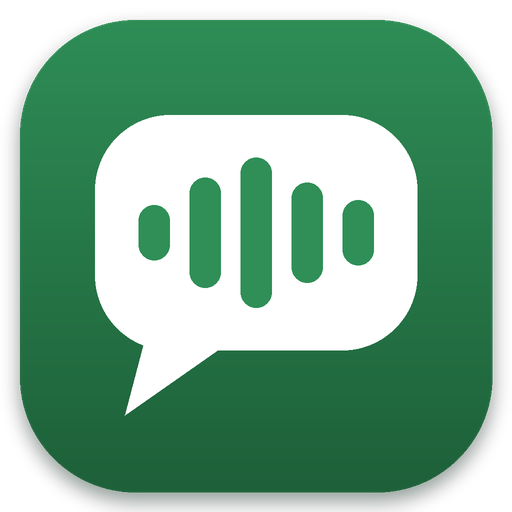
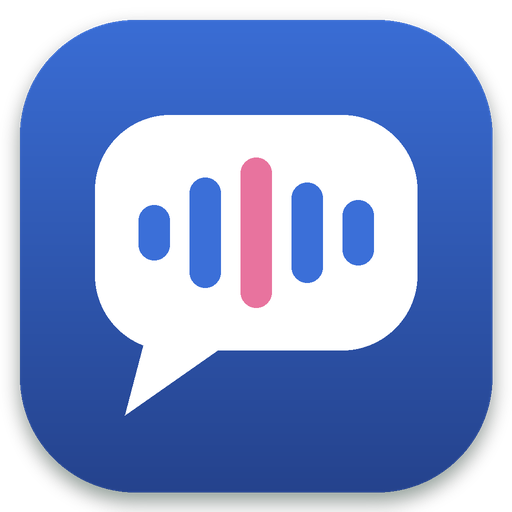
UI 改成藍粉配色（藍為主、粉色點綴），圖示設計同步改色

diff --git a/hoyotts/ui.py b/hoyotts/ui.py
@@ -1,4 +1,4 @@
-"""hoyoTTS 圖形介面（tkinter，綠色主題）。"""
+"""hoyoTTS 圖形介面（tkinter，藍粉主題）。"""
 
 from __future__ import annotations
 
@@ -22,29 +22,33 @@ FONT_BIG = (UI_FONT, 13)
 FONT_NAME = (UI_FONT, 13, "bold")
 FONT_TITLE = (UI_FONT, 16, "bold")
 
-# 綠色主題
-BG = "#eef6f0"          # 視窗底色
+# 藍粉主題：藍色為主，粉色點綴（開始按鈕、對話色帶、選項、朗讀中、勾選框）
+BG = "#eef3fb"          # 視窗底色
 CARD = "#ffffff"        # 卡片、分頁內容
-FG = "#1d3326"          # 主要文字
-MUTED = "#5d7465"       # 次要文字
-BORDER = "#c9e0d0"
-GREEN = "#2f8f57"       # 主色
-GREEN_DARK = "#1d5e38"  # 標題列、按下
-GREEN_HOVER = "#3aa366"
-GREEN_SOFT = "#d6eedd"  # 一般按鈕、分頁標籤
-GREEN_SOFT_HOVER = "#c2e5cd"
-HEADER_MUTED = "#b9dcc5"
+FG = "#1c2a40"          # 主要文字
+MUTED = "#5f6f88"       # 次要文字
+BORDER = "#cdd9ee"
+BLUE = "#3b6fd8"        # 主色
+BLUE_DARK = "#24418a"   # 標題列、按下
+BLUE_HOVER = "#4f82e6"
+BLUE_SOFT = "#dce6f8"   # 一般按鈕、分頁標籤
+BLUE_SOFT_HOVER = "#c8d8f4"
+HEADER_MUTED = "#b8c9ee"
+PINK = "#e8739e"        # 點綴色
+PINK_DARK = "#c4507b"
+PINK_HOVER = "#f08bb0"
+PINK_SOFT = "#fbe1ea"
 
-# 標題列上的狀態燈（深綠底）
-OK, WARN, BAD, OFF = "#6ee69a", "#ffd45c", "#ff7b7b", "#86a593"
+# 標題列上的狀態燈（深藍底）
+OK, WARN, BAD, OFF = "#7ee0b0", "#ffd45c", "#ff7b7b", "#8a9cc0"
 
 # 狀態膠囊：狀態 → (底色, 字色, 說明)
 PHASES = {
-    "未啟動": ("#5d7465", "#ffffff", "按「開始」監聽遊戲"),
-    "待機中": ("#2a7347", "#e3f4e8", "等待下一段劇情對話"),
-    "對話中": ("#d6eedd", GREEN_DARK, "辨識台詞中"),
-    "合成中": ("#a8dcb9", GREEN_DARK, "語音合成中…"),
-    "朗讀中": ("#6ee69a", "#0f3520", "快念完時就可以點下一段"),
+    "未啟動": ("#5f6f88", "#ffffff", "按「開始」監聽遊戲"),
+    "待機中": ("#3557a8", "#e4ecfb", "等待下一段劇情對話"),
+    "對話中": (BLUE_SOFT, BLUE_DARK, "辨識台詞中"),
+    "合成中": ("#b9cdf3", BLUE_DARK, "語音合成中…"),
+    "朗讀中": ("#f7a8c4", "#5a1530", "快念完時就可以點下一段"),
     "已暫停": ("#ffd45c", "#4a3a00", "朗讀已暫停"),
 }
 
@@ -55,65 +59,65 @@ def _setup_style(root: tk.Tk) -> None:
     for cls in ("Listbox", "Text", "Entry", "Label", "Button"):
         root.option_add(f"*{cls}.Font", FONT)
     root.option_add("*TCombobox*Listbox.Font", FONT)
-    root.option_add("*TCombobox*Listbox.selectBackground", GREEN)
+    root.option_add("*TCombobox*Listbox.selectBackground", BLUE)
     root.option_add("*TCombobox*Listbox.selectForeground", "#ffffff")
     st = ttk.Style(root)
     st.theme_use("clam")  # clam 才能自訂顏色
     st.configure(".", background=BG, foreground=FG, font=FONT, bordercolor=BORDER, lightcolor=BG,
-                 darkcolor=BG, troughcolor=GREEN_SOFT, focuscolor=GREEN, fieldbackground=CARD,
-                 selectbackground=GREEN, selectforeground="#ffffff")
+                 darkcolor=BG, troughcolor=BLUE_SOFT, focuscolor=BLUE, fieldbackground=CARD,
+                 selectbackground=BLUE, selectforeground="#ffffff")
     st.configure("TFrame", background=BG)
     st.configure("Card.TFrame", background=CARD)
-    st.configure("Header.TFrame", background=GREEN_DARK)
+    st.configure("Header.TFrame", background=BLUE_DARK)
     st.configure("TLabel", background=CARD, foreground=FG)
     st.configure("Muted.TLabel", background=CARD, foreground=MUTED)
-    st.configure("Header.TLabel", background=GREEN_DARK, foreground="#ffffff")
-    st.configure("HeaderMuted.TLabel", background=GREEN_DARK, foreground=HEADER_MUTED)
-    st.configure("Title.TLabel", background=GREEN_DARK, foreground="#ffffff", font=FONT_TITLE)
+    st.configure("Header.TLabel", background=BLUE_DARK, foreground="#ffffff")
+    st.configure("HeaderMuted.TLabel", background=BLUE_DARK, foreground=HEADER_MUTED)
+    st.configure("Title.TLabel", background=BLUE_DARK, foreground="#ffffff", font=FONT_TITLE)
 
-    st.configure("TButton", background=GREEN_SOFT, foreground=GREEN_DARK, bordercolor=BORDER,
-                 lightcolor=GREEN_SOFT, darkcolor=GREEN_SOFT, padding=(12, 6), relief="flat")
-    st.map("TButton", background=[("pressed", BORDER), ("active", GREEN_SOFT_HOVER)],
-           lightcolor=[("active", GREEN_SOFT_HOVER)], darkcolor=[("active", GREEN_SOFT_HOVER)])
-    st.configure("Accent.TButton", background=GREEN, foreground="#ffffff", bordercolor=GREEN_DARK,
-                 lightcolor=GREEN, darkcolor=GREEN, font=(UI_FONT, 11, "bold"), padding=(18, 7))
-    st.map("Accent.TButton", background=[("pressed", GREEN_DARK), ("active", GREEN_HOVER)],
-           lightcolor=[("active", GREEN_HOVER)], darkcolor=[("active", GREEN_HOVER)])
+    st.configure("TButton", background=BLUE_SOFT, foreground=BLUE_DARK, bordercolor=BORDER,
+                 lightcolor=BLUE_SOFT, darkcolor=BLUE_SOFT, padding=(12, 6), relief="flat")
+    st.map("TButton", background=[("pressed", BORDER), ("active", BLUE_SOFT_HOVER)],
+           lightcolor=[("active", BLUE_SOFT_HOVER)], darkcolor=[("active", BLUE_SOFT_HOVER)])
+    st.configure("Accent.TButton", background=PINK, foreground="#ffffff", bordercolor=PINK_DARK,
+                 lightcolor=PINK, darkcolor=PINK, font=(UI_FONT, 11, "bold"), padding=(18, 7))
+    st.map("Accent.TButton", background=[("pressed", PINK_DARK), ("active", PINK_HOVER)],
+           lightcolor=[("active", PINK_HOVER)], darkcolor=[("active", PINK_HOVER)])
 
     st.configure("TNotebook", background=BG, borderwidth=0, bordercolor=BORDER)
-    st.configure("TNotebook.Tab", background=GREEN_SOFT, foreground=GREEN_DARK, padding=(16, 6),
-                 bordercolor=BORDER, lightcolor=GREEN_SOFT)
-    st.map("TNotebook.Tab", background=[("selected", CARD), ("active", GREEN_SOFT_HOVER)],
-           foreground=[("selected", GREEN)], lightcolor=[("selected", CARD)])
+    st.configure("TNotebook.Tab", background=BLUE_SOFT, foreground=BLUE_DARK, padding=(16, 6),
+                 bordercolor=BORDER, lightcolor=BLUE_SOFT)
+    st.map("TNotebook.Tab", background=[("selected", CARD), ("active", BLUE_SOFT_HOVER)],
+           foreground=[("selected", BLUE)], lightcolor=[("selected", CARD)])
     st.configure("TLabelframe", background=CARD, bordercolor=BORDER, lightcolor=CARD, darkcolor=CARD)
-    st.configure("TLabelframe.Label", background=CARD, foreground=GREEN_DARK, font=FONT_BOLD)
+    st.configure("TLabelframe.Label", background=CARD, foreground=BLUE_DARK, font=FONT_BOLD)
     st.configure("TCheckbutton", background=CARD, foreground=FG, indicatorbackground=CARD,
                  indicatorforeground="#ffffff")
     st.map("TCheckbutton", background=[("active", CARD)],
-           indicatorbackground=[("selected", GREEN), ("active", GREEN_SOFT)])
-    st.configure("Bar.TCheckbutton", background=BG, foreground=GREEN_DARK, font=FONT_BOLD)
+           indicatorbackground=[("selected", PINK), ("active", PINK_SOFT)])
+    st.configure("Bar.TCheckbutton", background=BG, foreground=BLUE_DARK, font=FONT_BOLD)
     st.map("Bar.TCheckbutton", background=[("active", BG)])
     st.configure("TEntry", fieldbackground=CARD, bordercolor=BORDER, lightcolor=CARD, padding=4)
-    st.map("TEntry", bordercolor=[("focus", GREEN)], lightcolor=[("focus", GREEN)])
+    st.map("TEntry", bordercolor=[("focus", BLUE)], lightcolor=[("focus", BLUE)])
     for w in ("TCombobox", "TSpinbox"):
-        st.configure(w, fieldbackground=CARD, background=GREEN_SOFT, arrowcolor=GREEN_DARK,
+        st.configure(w, fieldbackground=CARD, background=BLUE_SOFT, arrowcolor=BLUE_DARK,
                      bordercolor=BORDER, lightcolor=CARD, padding=3)
-        st.map(w, bordercolor=[("focus", GREEN)], lightcolor=[("focus", GREEN)],
+        st.map(w, bordercolor=[("focus", BLUE)], lightcolor=[("focus", BLUE)],
                fieldbackground=[("readonly", CARD)], selectbackground=[("readonly", CARD)],
                selectforeground=[("readonly", FG)])
-    st.configure("Horizontal.TProgressbar", background=GREEN, troughcolor=GREEN_SOFT, bordercolor=BORDER,
-                 lightcolor=GREEN, darkcolor=GREEN)
-    st.configure("Horizontal.TScale", background=GREEN, troughcolor=GREEN_SOFT, bordercolor=BORDER,
-                 lightcolor=GREEN, darkcolor=GREEN)
-    st.map("Horizontal.TScale", background=[("active", GREEN_HOVER)])
-    st.configure("Vertical.TScrollbar", background=GREEN_SOFT, troughcolor=CARD, bordercolor=CARD,
-                 arrowcolor=GREEN_DARK, lightcolor=GREEN_SOFT, darkcolor=GREEN_SOFT)
+    st.configure("Horizontal.TProgressbar", background=BLUE, troughcolor=BLUE_SOFT, bordercolor=BORDER,
+                 lightcolor=BLUE, darkcolor=BLUE)
+    st.configure("Horizontal.TScale", background=BLUE, troughcolor=BLUE_SOFT, bordercolor=BORDER,
+                 lightcolor=BLUE, darkcolor=BLUE)
+    st.map("Horizontal.TScale", background=[("active", BLUE_HOVER)])
+    st.configure("Vertical.TScrollbar", background=BLUE_SOFT, troughcolor=CARD, bordercolor=CARD,
+                 arrowcolor=BLUE_DARK, lightcolor=BLUE_SOFT, darkcolor=BLUE_SOFT)
 
 
 def _style_tk(w: tk.Widget) -> None:
     """tk 原生元件（Listbox、Text）配色。"""
     w.configure(bg=CARD, fg=FG, relief="flat", borderwidth=0, highlightthickness=1,
-                highlightbackground=BORDER, highlightcolor=GREEN, selectbackground=GREEN,
+                highlightbackground=BORDER, highlightcolor=BLUE, selectbackground=BLUE,
                 selectforeground="#ffffff")
 
 
@@ -160,7 +164,7 @@ class App:
     # ---------- 版面 ----------
     def _light(self, parent, text):
         f = ttk.Frame(parent, style="Header.TFrame")
-        c = tk.Canvas(f, width=12, height=12, highlightthickness=0, bg=GREEN_DARK)
+        c = tk.Canvas(f, width=12, height=12, highlightthickness=0, bg=BLUE_DARK)
         dot = c.create_oval(1, 1, 11, 11, fill=OFF, outline="")
         c.pack(side="left", padx=(0, 6))
         ttk.Label(f, text=text, style="HeaderMuted.TLabel").pack(side="left")
@@ -170,7 +174,7 @@ class App:
         return c, dot, val
 
     def _build_header(self):
-        """深綠標題列：名稱、目前狀態、三個狀態燈。"""
+        """深藍標題列：名稱、目前狀態、三個狀態燈。"""
         head = ttk.Frame(self.root, style="Header.TFrame", padding=(18, 12, 18, 10))
         head.pack(fill="x")
         top = ttk.Frame(head, style="Header.TFrame")
@@ -203,21 +207,21 @@ class App:
                         command=self._toggle_auto_play).pack(side="right", padx=(0, 14))
 
     def _build_current(self):
-        """目前對話卡片，左邊一條綠色色帶。"""
+        """目前對話卡片，左邊一條粉色色帶。"""
         outer = tk.Frame(self.root, bg=BORDER)
         outer.pack(fill="x", padx=16, pady=(8, 4))
-        tk.Frame(outer, bg=GREEN, width=5).pack(side="left", fill="y")
+        tk.Frame(outer, bg=PINK, width=5).pack(side="left", fill="y")
         box = ttk.Frame(outer, style="Card.TFrame", padding=(14, 10, 14, 12))
         box.pack(side="left", fill="both", expand=True, padx=(0, 1), pady=1)
         top = ttk.Frame(box, style="Card.TFrame")
         top.pack(fill="x")
-        self.v_name = ttk.Label(top, text="—", font=FONT_NAME, foreground=GREEN_DARK)
+        self.v_name = ttk.Label(top, text="—", font=FONT_NAME, foreground=BLUE_DARK)
         self.v_name.pack(side="left")
         self.v_voice = ttk.Label(top, text="", style="Muted.TLabel")
         self.v_voice.pack(side="left", padx=(10, 0))
         self.v_text = ttk.Label(box, text="", font=FONT_BIG, wraplength=900, justify="left")
         self.v_text.pack(fill="x", pady=(6, 0))
-        self.v_opts = ttk.Label(box, text="", foreground=GREEN, wraplength=900, justify="left")
+        self.v_opts = ttk.Label(box, text="", foreground=PINK_DARK, wraplength=900, justify="left")
         self.v_opts.pack(fill="x", pady=(4, 0))
         self.v_speaking = ttk.Label(box, text="", style="Muted.TLabel")
         self.v_speaking.pack(fill="x", pady=(6, 0))
@@ -247,9 +251,9 @@ class App:
         f = self._tab(nb, "紀錄", 8)
         self.t_log = ScrolledText(f, height=12, font=FONT, state="disabled", wrap="word", padx=8, pady=6)
         _style_tk(self.t_log)
-        self.t_log.tag_configure("time", foreground="#8aa394")
-        self.t_log.tag_configure("synth", foreground="#7a9384")
-        self.t_log.tag_configure("opt", foreground=GREEN)
+        self.t_log.tag_configure("time", foreground="#8a97ad")
+        self.t_log.tag_configure("synth", foreground="#7d8aa3")
+        self.t_log.tag_configure("opt", foreground=PINK_DARK)
         self.t_log.pack(fill="both", expand=True)
 
     def _voice_combo(self, parent, value):
@@ -384,7 +388,7 @@ class App:
     def _tab_test(self, nb):
         f = self._tab(nb, "試聽")
         ttk.Label(f, text="輸入文字（繁簡都可以），選一個角色念念看：").pack(anchor="w")
-        self.t_test = tk.Text(f, height=4, wrap="word", font=FONT_BIG, padx=8, pady=6, insertbackground=GREEN)
+        self.t_test = tk.Text(f, height=4, wrap="word", font=FONT_BIG, padx=8, pady=6, insertbackground=BLUE)
         _style_tk(self.t_test)
         self.t_test.insert("1.0", "旅行者，我們快走吧！前面好像有寶箱哦。")
         self.t_test.pack(fill="x", pady=8)

diff --git a/tools/make_icon.py b/tools/make_icon.py
@@ -16,10 +16,10 @@ ROOT = os.path.dirname(os.path.dirname(os.path.abspath(__file__)))
 OUT = os.path.join(ROOT, "assets")
 S = 1024
 
-GREEN = (47, 143, 87)
-GREEN_DARK = (29, 94, 56)
-GREEN_LIGHT = (110, 230, 154)
-GOLD = (236, 190, 72)
+GREEN = (59, 111, 216)      # 主色（藍）
+GREEN_DARK = (36, 65, 138)  # 深藍
+GREEN_LIGHT = (247, 168, 196)  # 點綴（粉）
+GOLD = (240, 139, 176)  # 分隔線改粉色
 WHITE = (255, 255, 255)
 
 
@@ -63,11 +63,12 @@ def design_a():
     d.rounded_rectangle((190, 230, 834, 700), 150, fill=WHITE)
     d.polygon([(300, 640), (250, 830), (450, 690)], fill=WHITE)
     _bars(d, 512, 465, [110, 220, 300, 200, 130], 62, 40, GREEN)
+    d.rounded_rectangle((481, 315, 543, 615), 31, fill=(232, 115, 158))  # 中間那條改粉色
     return img
 
 
 def design_b():
-    """金色對話分隔線＋上方聲波：取自劇情對話框的意象。"""
+    """對話分隔線（粉色）＋上方聲波：取自劇情對話框的意象。"""
     img = _rounded_base()
     d = ImageDraw.Draw(img)
     _bars(d, 512, 420, [120, 230, 330, 400, 330, 230, 120], 54, 34, WHITE)
@@ -83,7 +84,7 @@ def design_b():
 
 def design_c():
     """文字行變成聲波：Text → Speech。"""
-    img = _rounded_base(top=(56, 160, 100), bottom=GREEN_DARK)
+    img = _rounded_base(top=(79, 130, 230), bottom=GREEN_DARK)
     d = ImageDraw.Draw(img)
     # 左邊三行字
     for i, (w, y) in enumerate([(300, 330), (250, 470), (200, 610)]):
@@ -96,7 +97,7 @@ def design_c():
     return img
 
 
-DESIGNS = {"a": ("對話泡泡＋聲波", design_a), "b": ("金色分隔線＋聲波", design_b), "c": ("文字→聲波", design_c)}
+DESIGNS = {"a": ("對話泡泡＋聲波", design_a), "b": ("粉色分隔線＋聲波", design_b), "c": ("文字→聲波", design_c)}
 
 
 def preview(imgs):
@@ -110,13 +111,13 @@ def preview(imgs):
         except OSError:
             pass
     W, H = cell * len(imgs) + 40, 760
-    out = Image.new("RGB", (W, H), (238, 246, 240))
+    out = Image.new("RGB", (W, H), (238, 243, 251))
     d = ImageDraw.Draw(out)
     d.rectangle((0, 430, W, H), fill=(32, 36, 34))
     for i, (key, (label, img)) in enumerate(imgs.items()):
         x0 = 20 + i * cell
         out.paste(img.resize((256, 256), Image.LANCZOS), (x0 + 22, 30), img.resize((256, 256), Image.LANCZOS))
-        d.text((x0 + cell / 2, 320), f"{key.upper()}　{label}", fill=(29, 94, 56), font=font, anchor="mm")
+        d.text((x0 + cell / 2, 320), f"{key.upper()}　{label}", fill=(36, 65, 138), font=font, anchor="mm")
         for row_y in (370, 495):
             x = x0 + 40
             for sz in (64, 32, 16):
